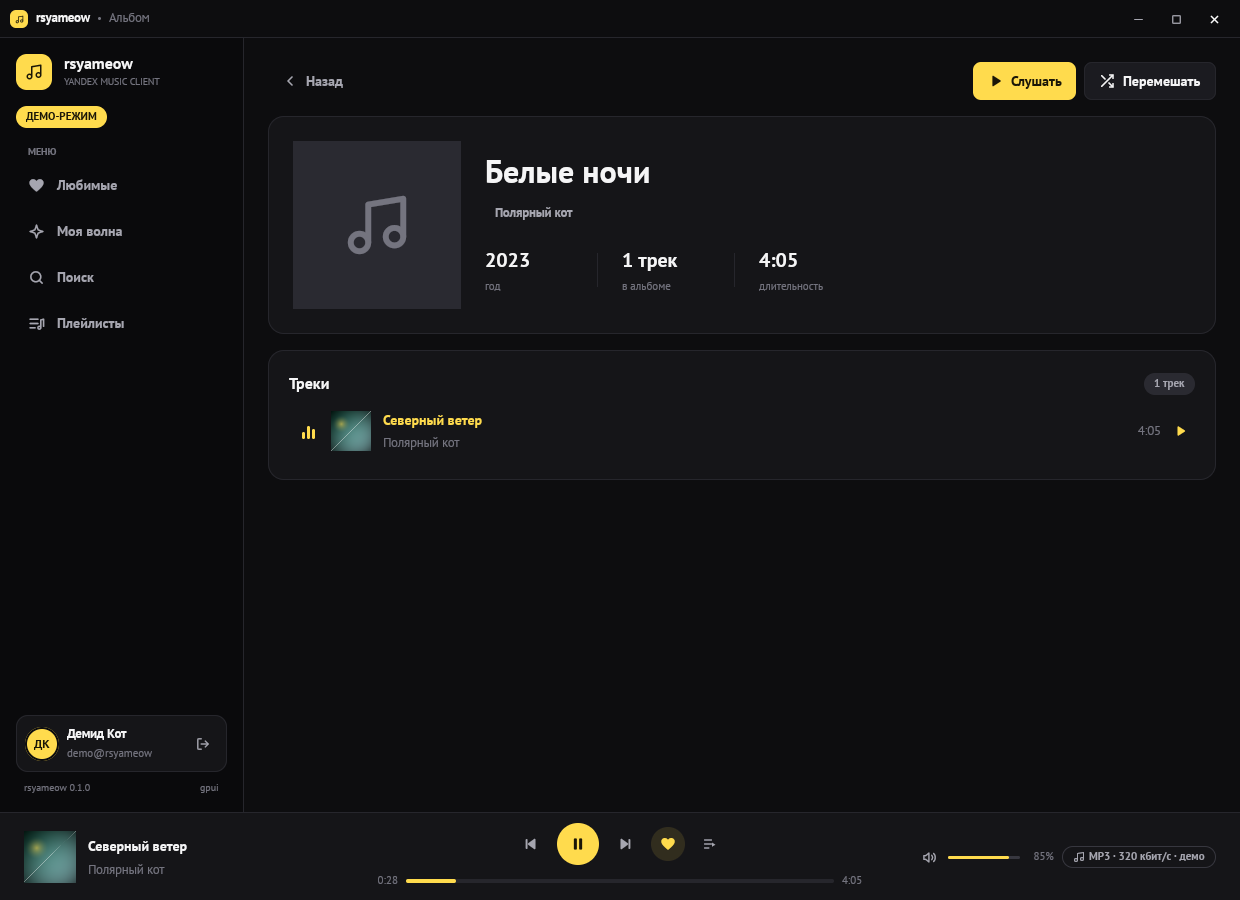
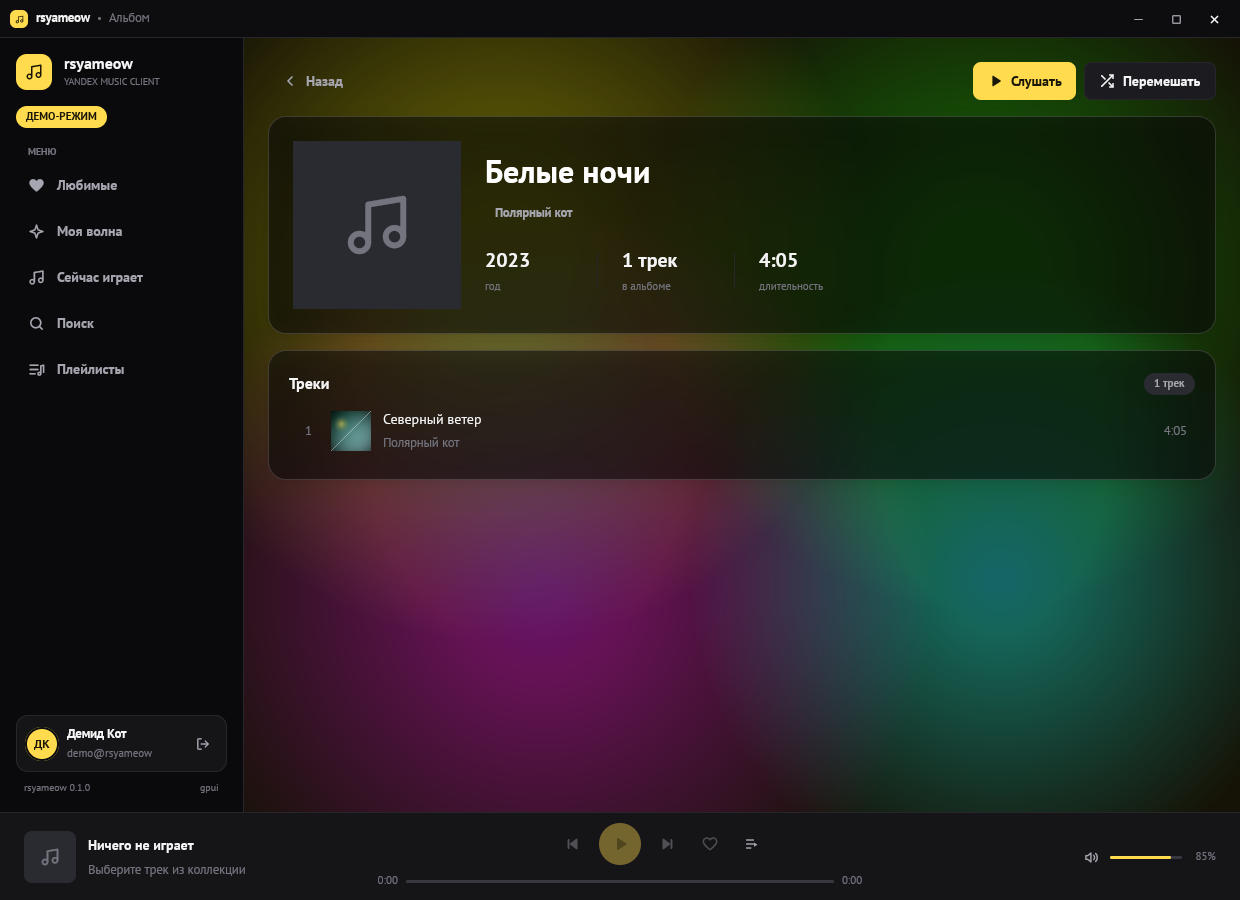
Add immersive backgrounds to album and artist pages

diff --git a/crates/app/src/view/artist.rs b/crates/app/src/view/artist.rs
@@ -16,6 +16,11 @@ impl RootView {
         let loading = self.artist.loading;
         let error = self.artist.error.clone();
         let artist_id = self.artist.id;
+        let background_key = artist_id
+            .map(|id| format!("artist-{id}"))
+            .unwrap_or_default();
+        let palette = self.track_palette(&background_key);
+        let backdrop = self.track_backdrop(&background_key);
         let cover =
             artist_id.and_then(|id| self.search_images.get(&format!("artist-{id}")).cloned());
         let current_id = self.player.track.as_ref().map(|track| track.id.clone());
@@ -87,7 +92,7 @@ impl RootView {
                     ),
             );
 
-        let hero = card(theme)
+        let hero = glass_card(theme)
             .flex_row()
             .items_center()
             .gap(px(space::XL))
@@ -155,7 +160,7 @@ impl RootView {
 
         if loading {
             body = body.child(
-                card(theme)
+                glass_card(theme)
                     .items_center()
                     .py(px(space::XXL))
                     .child(Spinner::new().size(24.0).color(theme.colors.accent))
@@ -171,7 +176,7 @@ impl RootView {
                 body = body.child(error_banner(theme, &error));
             }
 
-            let mut tracks_card = card(theme).child(
+            let mut tracks_card = glass_card(theme).child(
                 div()
                     .flex()
                     .items_center()
@@ -352,16 +357,15 @@ impl RootView {
             }
         }
 
-        div()
-            .flex()
-            .flex_col()
-            .flex_1()
-            .min_w(px(0.0))
-            .h_full()
-            .id("artist-scroll")
-            .overflow_y_scroll()
-            .child(
-                div().w_full().flex().justify_center().child(
+        immersive_scroll_page(
+            palette,
+            backdrop,
+            "artist-scroll",
+            div()
+                .w_full()
+                .flex()
+                .justify_center()
+                .child(
                     div()
                         .w_full()
                         .max_w(px(1180.0))
@@ -372,9 +376,9 @@ impl RootView {
                         .child(header)
                         .child(hero)
                         .child(body),
-                ),
-            )
-            .into_any_element()
+                )
+                .into_any_element(),
+        )
     }
 
     pub(crate) fn artist_tracks_view(
@@ -391,6 +395,13 @@ impl RootView {
         theme: &Theme,
         cx: &mut Context<Self>,
     ) -> AnyElement {
+        let background_key = self
+            .artist
+            .id
+            .map(|id| format!("artist-{id}"))
+            .unwrap_or_default();
+        let palette = self.track_palette(&background_key);
+        let backdrop = self.track_backdrop(&background_key);
         let artist_name = self
             .artist
             .artist
@@ -453,7 +464,7 @@ impl RootView {
                     ),
             );
 
-        let mut list = card(theme).child(
+        let mut list = glass_card(theme).child(
             div()
                 .flex()
                 .items_center()
@@ -523,16 +534,15 @@ impl RootView {
             }
         }
 
-        div()
-            .flex()
-            .flex_col()
-            .flex_1()
-            .min_w(px(0.0))
-            .h_full()
-            .id("artist-tracks-scroll")
-            .overflow_y_scroll()
-            .child(
-                div().w_full().flex().justify_center().child(
+        immersive_scroll_page(
+            palette,
+            backdrop,
+            "artist-tracks-scroll",
+            div()
+                .w_full()
+                .flex()
+                .justify_center()
+                .child(
                     div()
                         .w_full()
                         .max_w(px(1180.0))
@@ -560,9 +570,9 @@ impl RootView {
                                 ),
                         )
                         .child(list),
-                ),
-            )
-            .into_any_element()
+                )
+                .into_any_element(),
+        )
     }
 
     pub(crate) fn artist_albums_view(
@@ -579,6 +589,13 @@ impl RootView {
         theme: &Theme,
         cx: &mut Context<Self>,
     ) -> AnyElement {
+        let background_key = self
+            .artist
+            .id
+            .map(|id| format!("artist-{id}"))
+            .unwrap_or_default();
+        let palette = self.track_palette(&background_key);
+        let backdrop = self.track_backdrop(&background_key);
         let artist_name = self
             .artist
             .artist
@@ -604,7 +621,7 @@ impl RootView {
         }
         if loading && albums.is_empty() {
             body = body.child(
-                card(theme)
+                glass_card(theme)
                     .items_center()
                     .py(px(space::XXL))
                     .child(Spinner::new().size(24.0).color(theme.colors.accent))
@@ -689,16 +706,15 @@ impl RootView {
             body = body.child(grid);
         }
 
-        div()
-            .flex()
-            .flex_col()
-            .flex_1()
-            .min_w(px(0.0))
-            .h_full()
-            .id("artist-albums-scroll")
-            .overflow_y_scroll()
-            .child(
-                div().w_full().flex().justify_center().child(
+        immersive_scroll_page(
+            palette,
+            backdrop,
+            "artist-albums-scroll",
+            div()
+                .w_full()
+                .flex()
+                .justify_center()
+                .child(
                     div()
                         .w_full()
                         .max_w(px(1180.0))
@@ -726,8 +742,8 @@ impl RootView {
                                 ),
                         )
                         .child(body),
-                ),
-            )
-            .into_any_element()
+                )
+                .into_any_element(),
+        )
     }
 }

diff --git a/crates/app/src/view/album.rs b/crates/app/src/view/album.rs
@@ -15,6 +15,9 @@ impl RootView {
         let loading = self.album.loading;
         let error = self.album.error.clone();
         let album_id = self.album.id;
+        let background_key = album_id.map(|id| format!("album-{id}")).unwrap_or_default();
+        let palette = self.track_palette(&background_key);
+        let backdrop = self.track_backdrop(&background_key);
         let cover = album_id.and_then(|id| self.search_images.get(&format!("album-{id}")).cloned());
         let current_id = self.player.track.as_ref().map(|track| track.id.clone());
         let playing = self.player.playing;
@@ -103,7 +106,7 @@ impl RootView {
             );
         }
 
-        let hero = card(theme)
+        let hero = glass_card(theme)
             .flex_row()
             .items_center()
             .gap(px(space::XL))
@@ -160,7 +163,7 @@ impl RootView {
 
         if loading {
             body = body.child(
-                card(theme)
+                glass_card(theme)
                     .items_center()
                     .py(px(space::XXL))
                     .child(Spinner::new().size(24.0).color(theme.colors.accent))
@@ -176,7 +179,7 @@ impl RootView {
                 body = body.child(error_banner(theme, &error));
             }
 
-            let mut list = card(theme).child(
+            let mut list = glass_card(theme).child(
                 div()
                     .flex()
                     .items_center()
@@ -232,16 +235,15 @@ impl RootView {
             body = body.child(list);
         }
 
-        div()
-            .flex()
-            .flex_col()
-            .flex_1()
-            .min_w(px(0.0))
-            .h_full()
-            .id("album-scroll")
-            .overflow_y_scroll()
-            .child(
-                div().w_full().flex().justify_center().child(
+        immersive_scroll_page(
+            palette,
+            backdrop,
+            "album-scroll",
+            div()
+                .w_full()
+                .flex()
+                .justify_center()
+                .child(
                     div()
                         .w_full()
                         .max_w(px(1180.0))
@@ -252,8 +254,8 @@ impl RootView {
                         .child(header)
                         .child(hero)
                         .child(body),
-                ),
-            )
-            .into_any_element()
+                )
+                .into_any_element(),
+        )
     }
 }

diff --git a/crates/app/src/app/album.rs b/crates/app/src/app/album.rs
@@ -126,7 +126,11 @@ impl RootView {
         cx.spawn(async move |this: WeakEntity<Self>, cx| {
             for (key, url) in covers {
                 let already = this
-                    .update(cx, |this, _| this.search_images.contains_key(&key))
+                    .update(cx, |this, _| {
+                        this.search_images.contains_key(&key)
+                            && this.track_palettes.contains_key(&key)
+                            && this.track_backdrops.contains_key(&key)
+                    })
                     .unwrap_or(true);
                 if already {
                     continue;
@@ -138,6 +142,8 @@ impl RootView {
                 let Some(bytes) = bytes else {
                     continue;
                 };
+                let palette = cover_palette(&bytes);
+                let backdrop = super::cover_art::blurred_cover(&bytes);
                 let Some(image) = decode_image(bytes) else {
                     continue;
                 };
@@ -145,6 +151,12 @@ impl RootView {
                     .update(cx, |this, cx| {
                         if this.profile_epoch != epoch {
                             return false;
+                        }
+                        if let Some(palette) = palette {
+                            this.track_palettes.insert(key.clone(), palette);
+                        }
+                        if let Some(backdrop) = backdrop {
+                            this.track_backdrops.insert(key.clone(), backdrop);
                         }
                         this.search_images.insert(key, image);
                         cx.notify();

diff --git a/crates/app/src/view/widgets.rs b/crates/app/src/view/widgets.rs
@@ -138,6 +138,36 @@ pub(crate) fn glass_card(theme: &Theme) -> Div {
         .text_color(theme.colors.white)
 }
 
+pub(crate) fn immersive_scroll_page(
+    palette: (Rgba, Rgba),
+    backdrop: Option<Arc<Image>>,
+    scroll_id: &'static str,
+    content: AnyElement,
+) -> AnyElement {
+    div()
+        .relative()
+        .flex()
+        .flex_col()
+        .flex_1()
+        .min_w(px(0.0))
+        .h_full()
+        .overflow_hidden()
+        .bg(palette.0)
+        .child(immersive_background(palette, backdrop))
+        .child(
+            div()
+                .relative()
+                .flex()
+                .flex_col()
+                .flex_1()
+                .min_h(px(0.0))
+                .id(scroll_id)
+                .overflow_y_scroll()
+                .child(content),
+        )
+        .into_any_element()
+}
+
 pub(crate) fn immersive_background(
     palette: (Rgba, Rgba),
     backdrop: Option<Arc<Image>>,

diff --git a/README.md b/README.md
@@ -36,8 +36,9 @@
   количество лайков); на странице артиста видны первые 10 треков и
   горизонтальная лента из 10 альбомов.
   Футеры «Все треки» и «Все альбомы» открывают отдельные вкладки с полной
-  дискографией. Страница альбома — треки, год, длительность и переход к
-  артисту. Навигация «назад» возвращает на предыдущий экран.
+  дискографией. Фон страниц артиста и альбома — 4 radial gradient из обложки
+  с размытой подложкой. Страница альбома — треки, год, длительность и переход
+  к артисту. Навигация «назад» возвращает на предыдущий экран.
 - **Страница трека.** Открывается кликом по названию в любом списке (без
   запуска воспроизведения). Компактный хедер:
   обложка, название, исполнитель и альбом со ссылками, длительность и, для
